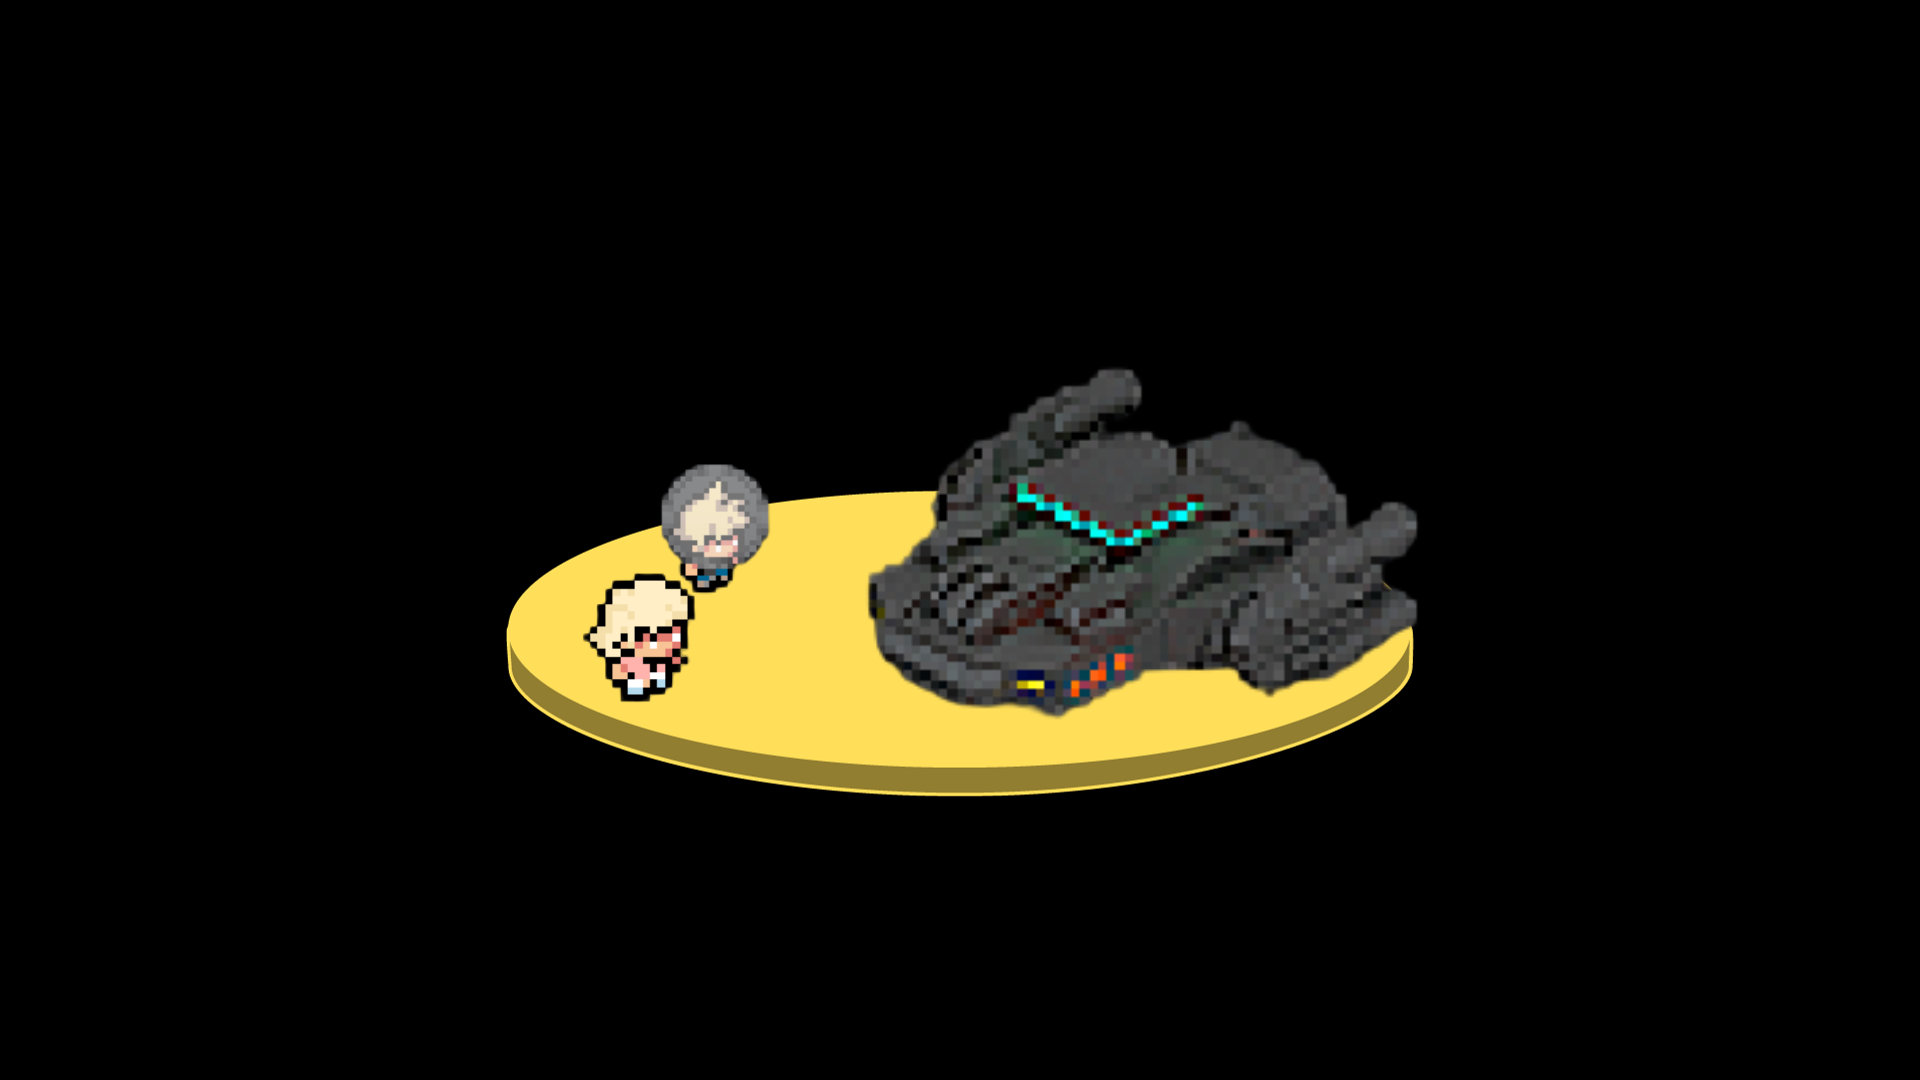
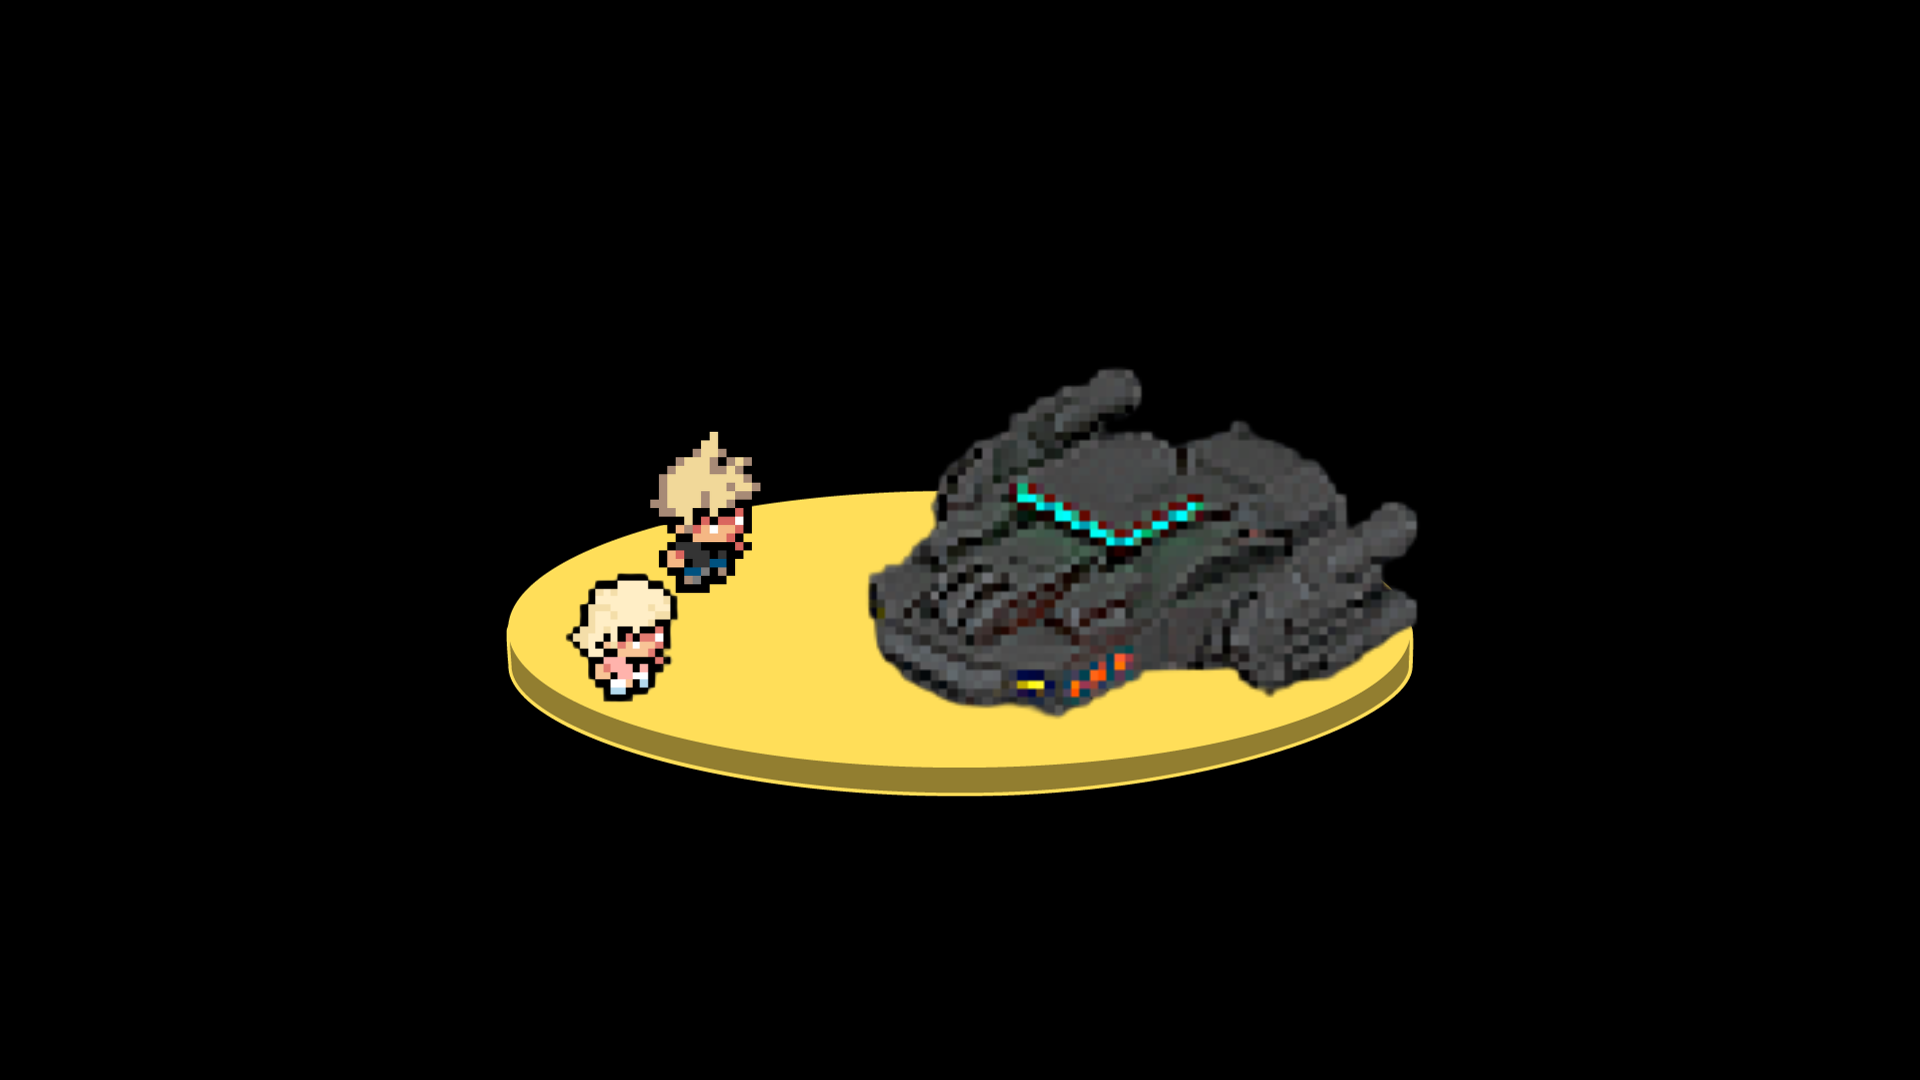
Added Better images for the initial screen and rectified the text display issue

Changed region(s): [[0.2812, 0.3972, 0.4062, 0.6722]]

diff --git a/source/core/src/main/com/csse3200/game/components/InitialSequence/InitialScreenDisplay.java b/source/core/src/main/com/csse3200/game/components/InitialSequence/InitialScreenDisplay.java
@@ -40,6 +40,9 @@ public class InitialScreenDisplay extends UIComponent {
     private Image backgroundImage;
     private ArrayList<String> stories;
     private int currentStoryIndex = 0;
+    private boolean textAnimationInProgress = false;  // Flag to track text animation progress
+    private boolean next=false;
+    private boolean prev=false;
 
     /**
      * Creates a new instance of the InitialScreenDisplay.
@@ -93,9 +96,9 @@ public class InitialScreenDisplay extends UIComponent {
         // The initial text you want to display
         stories = new ArrayList<>();
         stories.add( "Amidst Earth's ruins, you stand, humanity's last hope in the cosmic expanse." );
-        stories.add("Meet Dr. Emily Carter, a fellow Scientist who remains untouched by the virus ");
+        stories.add("Meet Dr. Emily Carter, a fellow Scientist who remains untouched by the virus.");
         stories.add("With courage intertwined, you both embrace the unknown, a symbiotic bond on this journey.");
-        stories.add("Behold the spacecraft provided by Astro , a sentinel of possibility, ready to breach the celestial unknown.");
+        stories.add("Behold Astro's spacecraft, a sentinel of possibility, ready to explore the celestial unknown.");
         stories.add("Step into destiny's vessel, as you and Emily set course for the uncharted cosmic domain.");
 
         String story = stories.get(currentStoryIndex);
@@ -155,21 +158,25 @@ public class InitialScreenDisplay extends UIComponent {
         ImageButton skipBtn = bothButtons.draw(skipTexture, skipTextureHover);
 
         // Attach listeners to navigation buttons
-        nextBtn.addListener(
-                new ChangeListener() {
-                    @Override
-                    public void changed(ChangeListener.ChangeEvent changeEvent, Actor actor) {
-                        logger.debug("Next button clicked");
-                        entity.getEvents().trigger("next");
-                    }
-                });
+            nextBtn.addListener(
+                    new ChangeListener() {
+                        @Override
+                        public void changed(ChangeListener.ChangeEvent changeEvent, Actor actor) {
+                            logger.debug("Next button clicked");
+                            entity.getEvents().trigger("next");
+                        }
+
+                    });
+
+
+
 
         prevBtn.addListener(
                 new ChangeListener() {
                     @Override
                     public void changed(ChangeListener.ChangeEvent changeEvent, Actor actor) {
                         logger.debug("Previous button clicked");
-                        entity.getEvents().trigger("previous");
+                      entity.getEvents().trigger("previous");
                     }
                 });
         skipBtn.addListener(
@@ -217,6 +224,11 @@ public class InitialScreenDisplay extends UIComponent {
                     char currentChar = text.charAt(charIndex);
                     label.setText(label.getText().toString() + currentChar);
                     charIndex++;
+                    if (charIndex == text.length()-1) {
+                        next = true;
+                        prev = true;
+                        textAnimationInProgress = false;  // Animation complete, reset the flag
+                    }
                 } else {
                     // Stop the Timer when all characters are printed
                     this.cancel();
@@ -224,39 +236,46 @@ public class InitialScreenDisplay extends UIComponent {
             }
         }, initialDelay, speed, text.length() - 1);
     }
-
     int start = 0;
     int end = 4; // Change this to the number of images you have - 1
 
     private void nextScene() {
-        if (start < end) {
-            start += 1;
-            currentStoryIndex += 1;
-            if (currentStoryIndex < stories.size()) {
-                String newStory = stories.get(currentStoryIndex);
-                storyLabel.clearActions();
-                storyLabel.setText("");
-                printTextLetterByLetter(newStory, storyLabel, 0.035f, 0.5f);
+        if (next && !textAnimationInProgress) {
+            if (start < end) {
+                start += 1;
+                currentStoryIndex += 1;
+                if (currentStoryIndex < stories.size()) {
+                    textAnimationInProgress = true;  // Set the flag to indicate text animation is in progress
+                    storyLabel.clearActions();
+                    storyLabel.setText("");
+                    String newStory = stories.get(currentStoryIndex);
+                    printTextLetterByLetter(newStory, storyLabel, 0.035f, 0.5f);
+                }
+                Texture newImageTexture = new Texture(Gdx.files.internal(InitialScreenImages.get(start)));
+                backgroundImage.setDrawable(new TextureRegionDrawable(newImageTexture));
+            } else {
+                new PlanetTravel(game).returnToCurrent();
             }
-            Texture newImageTexture = new Texture(Gdx.files.internal(InitialScreenImages.get(start)));
-            backgroundImage.setDrawable(new TextureRegionDrawable(newImageTexture));
-        } else {
-            new PlanetTravel(game).returnToCurrent();
         }
     }
 
+
+
     private void prevScene() {
-        if (start > 0) {
-            start -= 1;
-            currentStoryIndex -= 1;
-            if (currentStoryIndex >= 0) {
-                String prevStory = stories.get(currentStoryIndex);
-                storyLabel.clearActions();
-                storyLabel.setText("");
-                printTextLetterByLetter(prevStory, storyLabel, 0.035f, 0.5f);
+        if (prev && !textAnimationInProgress) {
+            if (start > 0) {
+                start -= 1;
+                currentStoryIndex -= 1;
+                if (currentStoryIndex >= 0) {
+                    textAnimationInProgress = true;  // Set the flag to indicate text animation is in progress
+                    storyLabel.clearActions();
+                    storyLabel.setText("");
+                    String prevStory = stories.get(currentStoryIndex);
+                    printTextLetterByLetter(prevStory, storyLabel, 0.035f, 0.5f);
+                }
+                Texture prevImageTexture = new Texture(Gdx.files.internal(InitialScreenImages.get(start)));
+                backgroundImage.setDrawable(new TextureRegionDrawable(prevImageTexture));
             }
-            Texture prevImageTexture = new Texture(Gdx.files.internal(InitialScreenImages.get(start)));
-            backgroundImage.setDrawable(new TextureRegionDrawable(prevImageTexture));
         }
     }
 
